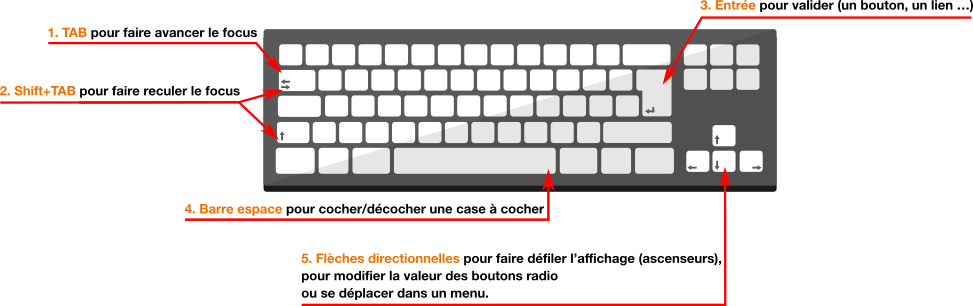
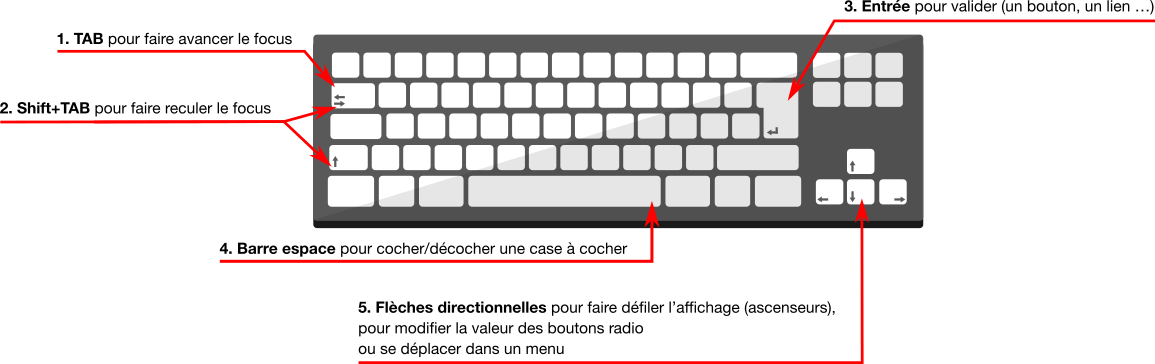
keyboard pages updated (both FR and EN)

diff --git a/web_EN/inputs/md/methodes-outils-clavier.md b/web_EN/inputs/md/methodes-outils-clavier.md
@@ -13,12 +13,49 @@ Navigation in a web page should be possible using only the keyboard, particularl
 To test if your service is accessible using the keyboard, you can try to navigate without your mouse. All available features must be accessible.  
 ** Reminder: **the focus must be visible enough on all focusable elements.
 
-## List of keyboard shortcuts: 
-- The <kbd>Tab</kbd> key: to move the focus.
-- The <kbd>shift + Tab</kbd> keys: to move backwards the focus.
-- The <kbd>Return</kbd> key to activate the element that has the focus (link, button, menu…).
-- The <kbd>Spacebar</kbd> to check / uncheck a checkbox.
-- The arrow keys to change the selection of the radio buttons, to move in a drop-down list, or to scroll (scrollbar) when available.
+## List of keyboard shortcuts:
+![keyboard shortcuts illustration](./images/keyboard.png)
+
+
+<table class="table">
+<caption class="sr-only">List of keyboard shortcuts</caption>
+   <thead>
+      <tr>
+         <th>Interactions</th>
+         <th>Shortcuts</th>
+      </tr>
+   </thead>
+   <tbody>
+      <tr>
+         <td>To move the focus</td>
+         <td>`Tab`</td>
+      </tr>
+      <tr>
+         <td>To move backwards the focus</td>
+         <td>`Shift + Tab`</td>
+      </tr>
+      <tr>
+         <td>To activate the element that has the focus (link, button, menu…)</td>
+         <td>`Return` key</td>
+      </tr>
+      <tr>
+         <td>To check / uncheck a checkbox</td>
+         <td>`Spacebar`</td>
+      </tr>
+      <tr>
+         <td>To select of the radio buttons into a radio group</td>
+         <td>arrow keys `Up`&nbsp;/&nbsp;`Down` ou `Left`&nbsp;/&nbsp;`Right`</td>
+      </tr>
+      <tr>
+         <td>To move in a drop-down list</td>
+         <td>arrow keys `Up`&nbsp;/&nbsp;`Down`, then `Spacebar`</td>
+      </tr>
+	  <tr>
+         <td>To scroll(scrollbar)</td>
+         <td>arrow keys `Up`&nbsp;/&nbsp;`Down` for a vertical scrollbar,<br> arrow keys `Left`&nbsp;/&nbsp;`Right` for a horizontal scrollbar</td>
+      </tr>
+   </tbody>
+</table>
 
 ** Note: on Mac, keyboard navigation must be enabled first: **  
 In Safari: Edit > Preferences… > Advanced  

diff --git a/web/inputs/md/methodes-outils-clavier.md b/web/inputs/md/methodes-outils-clavier.md
@@ -15,7 +15,7 @@ Pour tester si votre service est accessible à l’aide du clavier, vous pouvez 
 
 ## Liste des raccourcis clavier principaux&nbsp;: 
 
-![capture d’écran de l’outil colour contrast analyser](./images/keyboard.png)
+![présentation des raccourcis clavier](./images/keyboard.png)
 
 <table class="table">
 <caption class="sr-only">Liste des raccourcis clavier principaux</caption>
